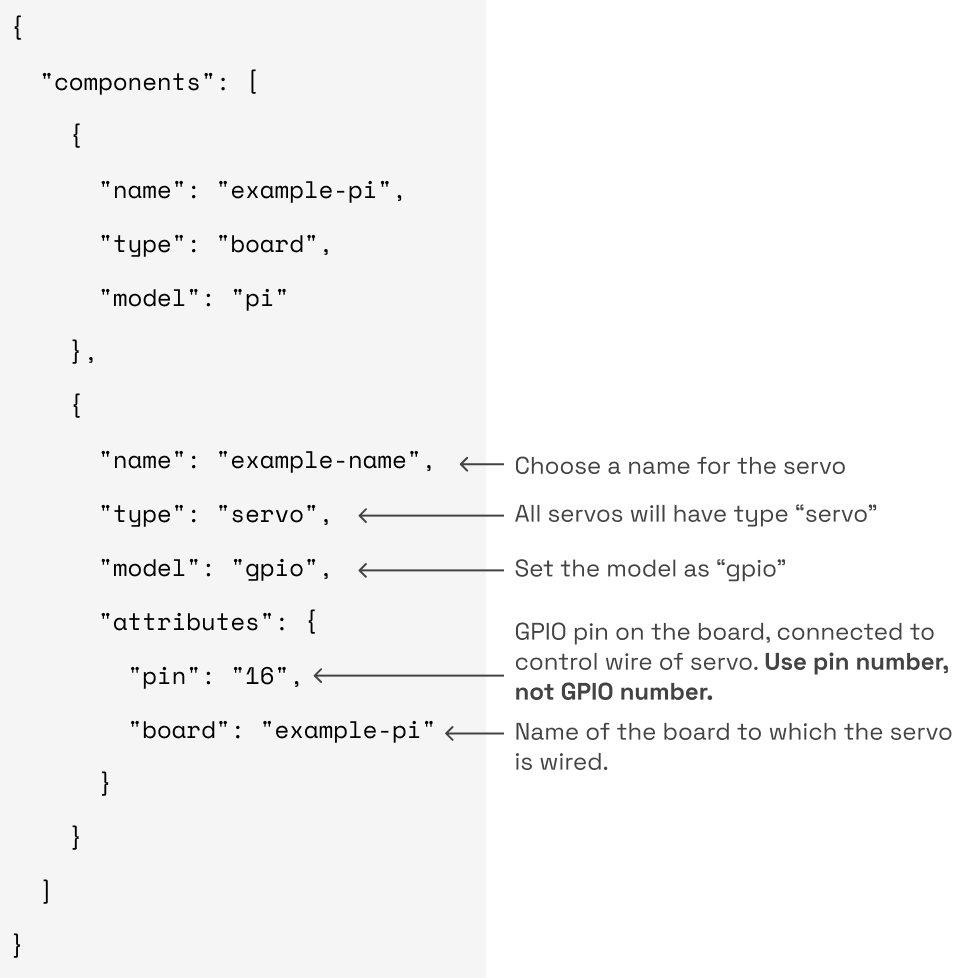
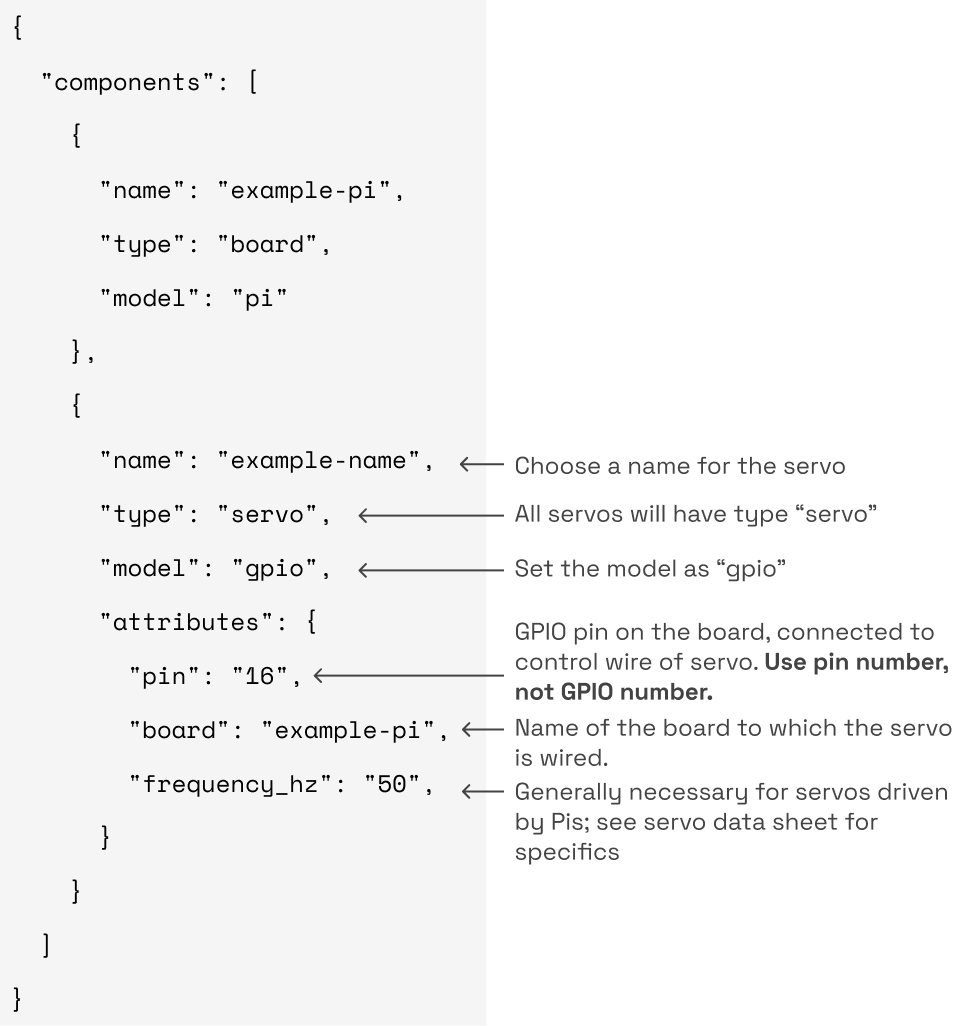
DAD-329 add default frequency suggestion to gpio servo

diff --git a/docs/components/servo.md b/docs/components/servo.md
@@ -7,6 +7,7 @@ description: "Explanation of servo wiring and configuration in Viam."
 tags: ["servo", "components"]
 # SME: #team-bucket
 ---
+
 Hobby servos are a type of actuator comprising a small motor with built-in closed-loop control.
 
 The Viam `servo` component is designed to support hobby servos, not servomotors.
@@ -44,6 +45,7 @@ The following fields are required when configuring a servo:
 
   - `pi` is only compatible with Raspberry Pi.
   It has a timeout parameter to help prevent burning out cheap servos, but this is not necessary in most cases.
+  Unlike other servo models, it is implemented as part of the `pi` board component; see the code here: [https://github.com/viamrobotics/rdk/blob/main/components/board/pi/impl/servo.go](https://github.com/viamrobotics/rdk/blob/main/components/board/pi/impl/servo.go).
 
   - `fake` is for testing code without any actual hardware.
 
@@ -59,7 +61,7 @@ All models require the following:
 
 ### Example Config
 
-An example configuration file containing the necessary attributes is as follows:
+An example configuration file showing a board component and a servo component is as follows:
 
 {{< tabs name="Example Servo Config" >}}
 {{% tab name="Raw JSON" %}}
@@ -79,7 +81,8 @@ An example configuration file containing the necessary attributes is as follows:
       "model": "gpio",
       "attributes": {
         "pin": "16",
-        "board": "example-pi"
+        "board": "example-pi",
+        "frequency_hz": 50
       }
     }
   ]
@@ -101,7 +104,7 @@ An example configuration file containing the necessary attributes is as follows:
 | `min_angle_deg`         | float64 | Specifies the minimum angle in degrees to which the servo can move. Does not affect PWM calculation.                                                                    |
 | `max_angle_deg`         | float64 | Specifies the maximum angle in degrees to which the servo can move. Does not affect PWM calculation.                                                                    |
 | `starting_position_deg` | float64 | Starting position of the servo in degrees.                                                                                                                              |
-| `frequency_hz`          | uint    | The servo driver will attempt to change the GPIO pin's frequency. Default for a Pi is 19.2MHz.                                                                          |
+| `frequency_hz`          | uint    | The rate of pulses sent to the servo. The servo driver will attempt to change the GPIO pin's frequency (in Hz). **We recommend setting this to 50 for most servos driven by a Pi.**                           |
 | `pwm_resolution`        | uint    | Resolution of the PWM driver (e.g. number of ticks for a full period). Must be in range (0, 450). If not specified, the driver will attempt to estimate the resolution. |
 | `min_width_us`          | uint    | Override the safe minimum pulse width in microseconds. This affects PWM calculation.                                                                                    |
 | `max_width_us`          | uint    | Override the safe maximum pulse width in microseconds. This affects PWM calculation.                                                                                    |
@@ -125,9 +128,10 @@ The servo component supports the following methods:
 
 {{% alert title="Note" color="note" %}}
 
-First make sure you have setup your robot and connected it to the Viam app. Check out our [getting started section](/getting-started/) for details.
+First make sure you have set up your robot and connected it to the Viam app.
+Check out our [installation guide](/installation/) for details.
 
-**Assumption:** A servo called "my_servo" is configured as a component of your robot on the Viam app.
+**Assumption:** A servo called "my_servo" is configured as a component of your robot.
 
 {{% /alert %}}
 
